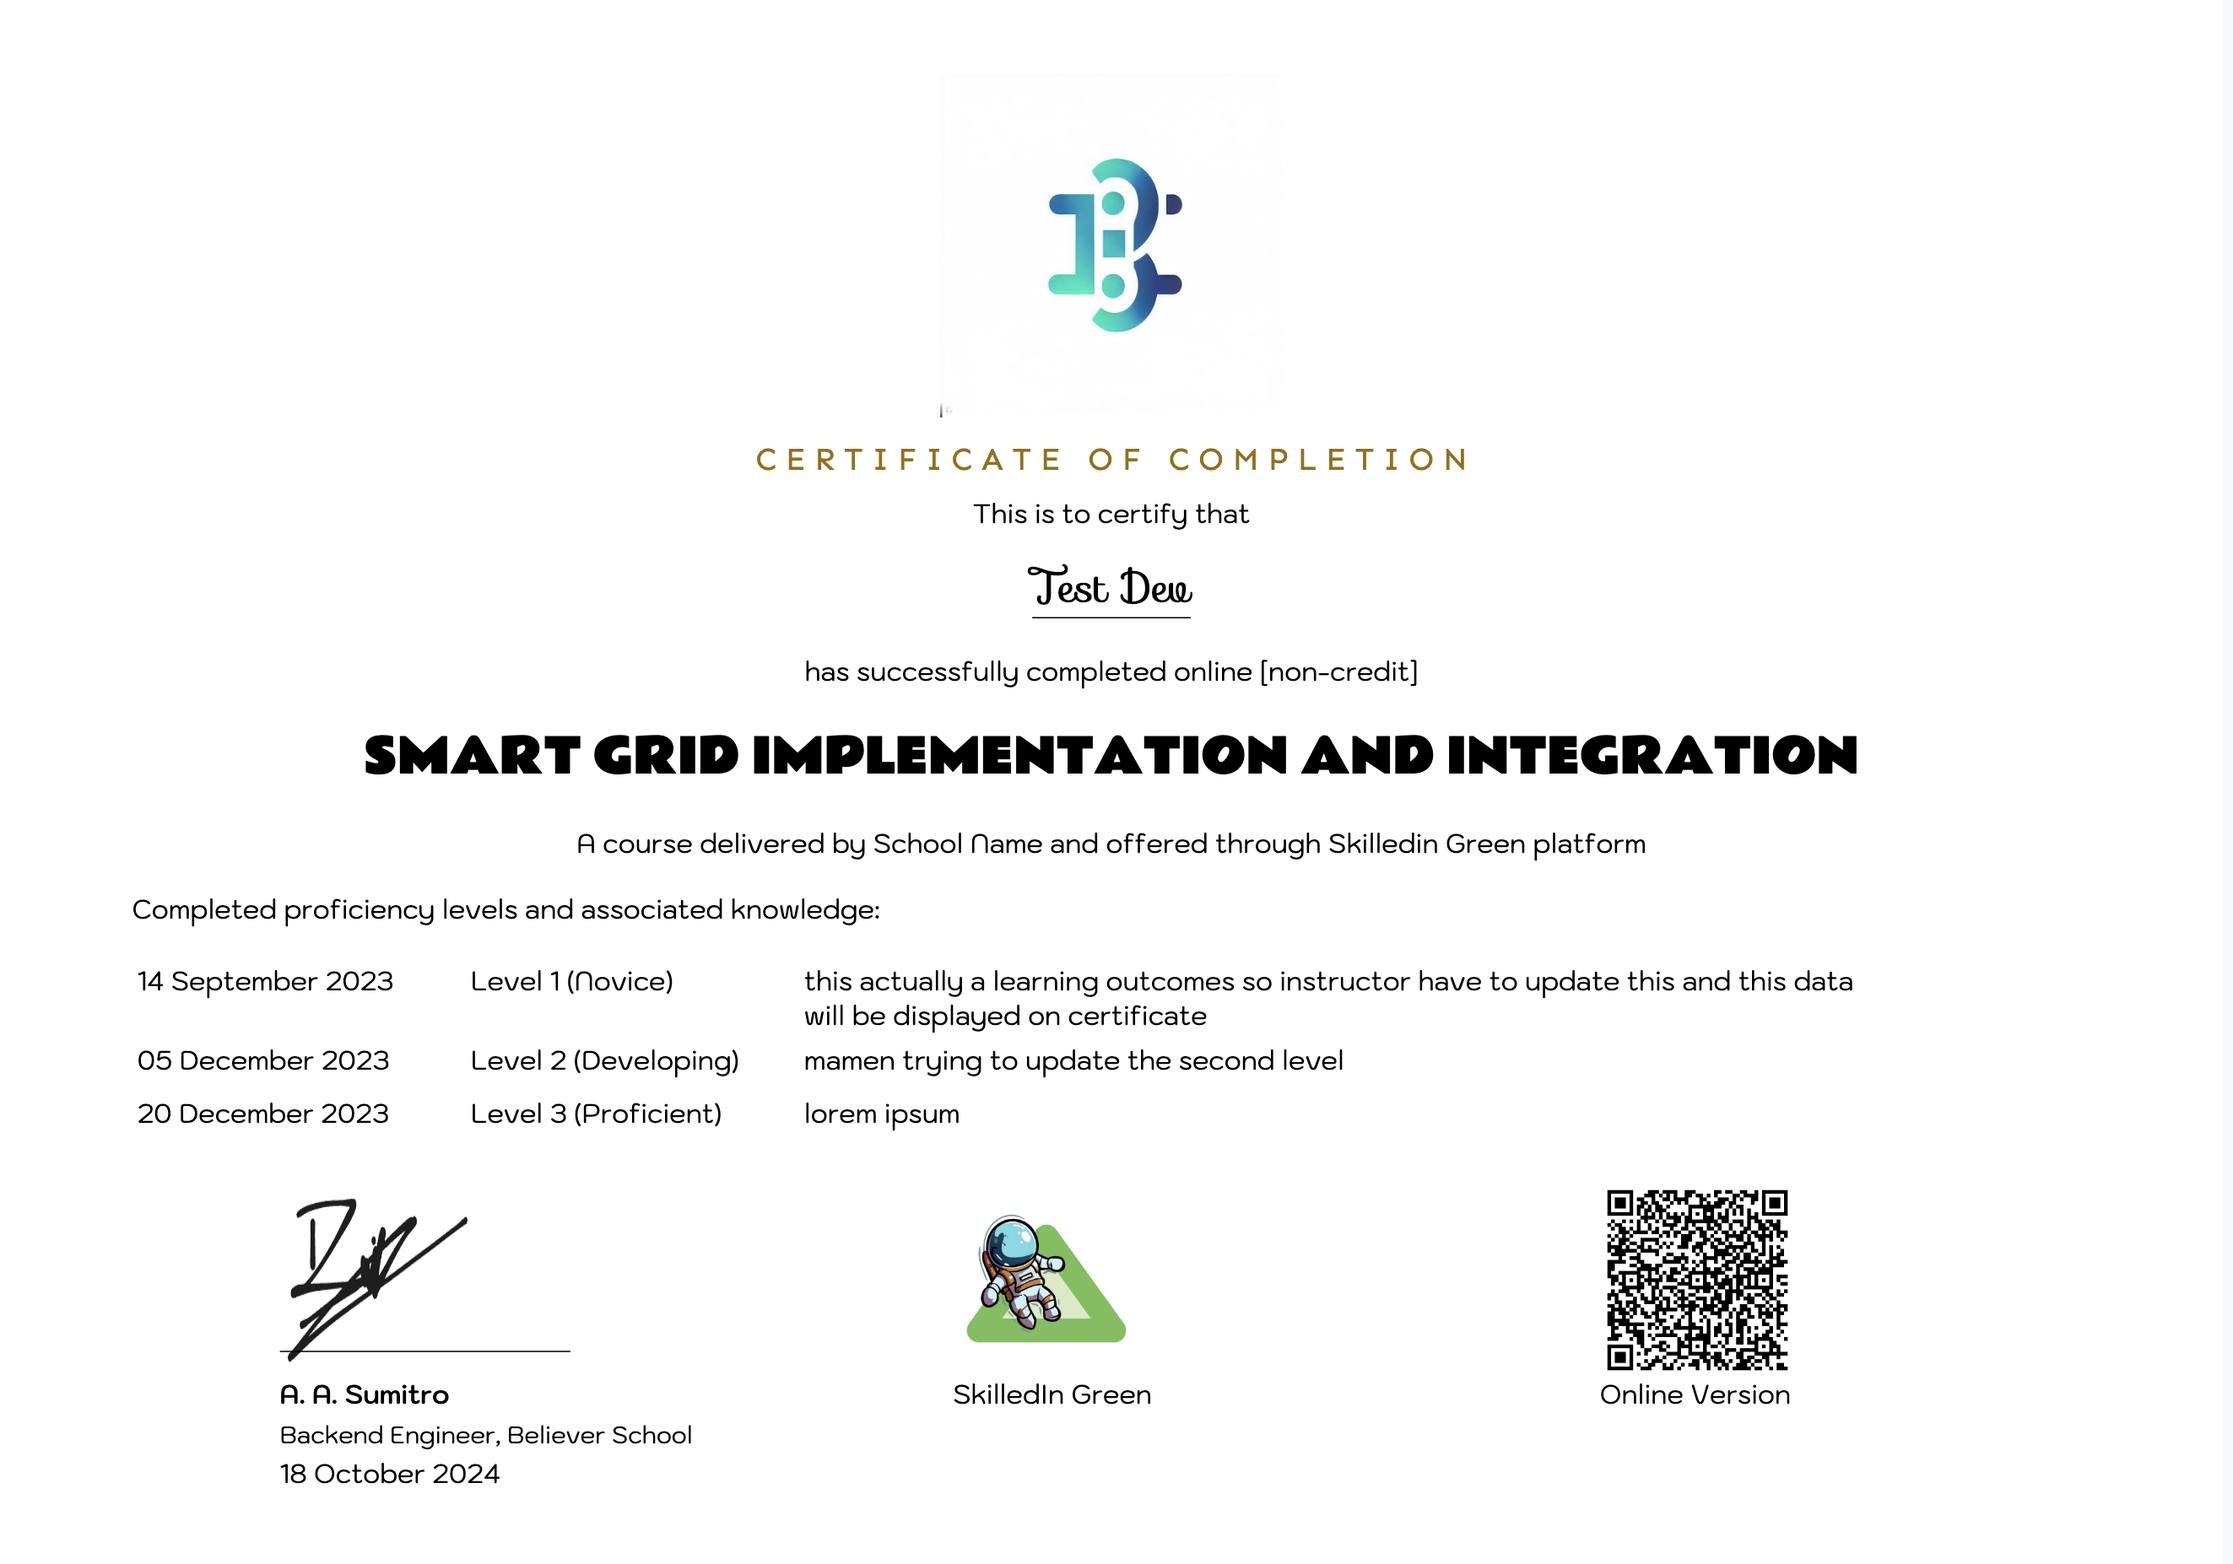
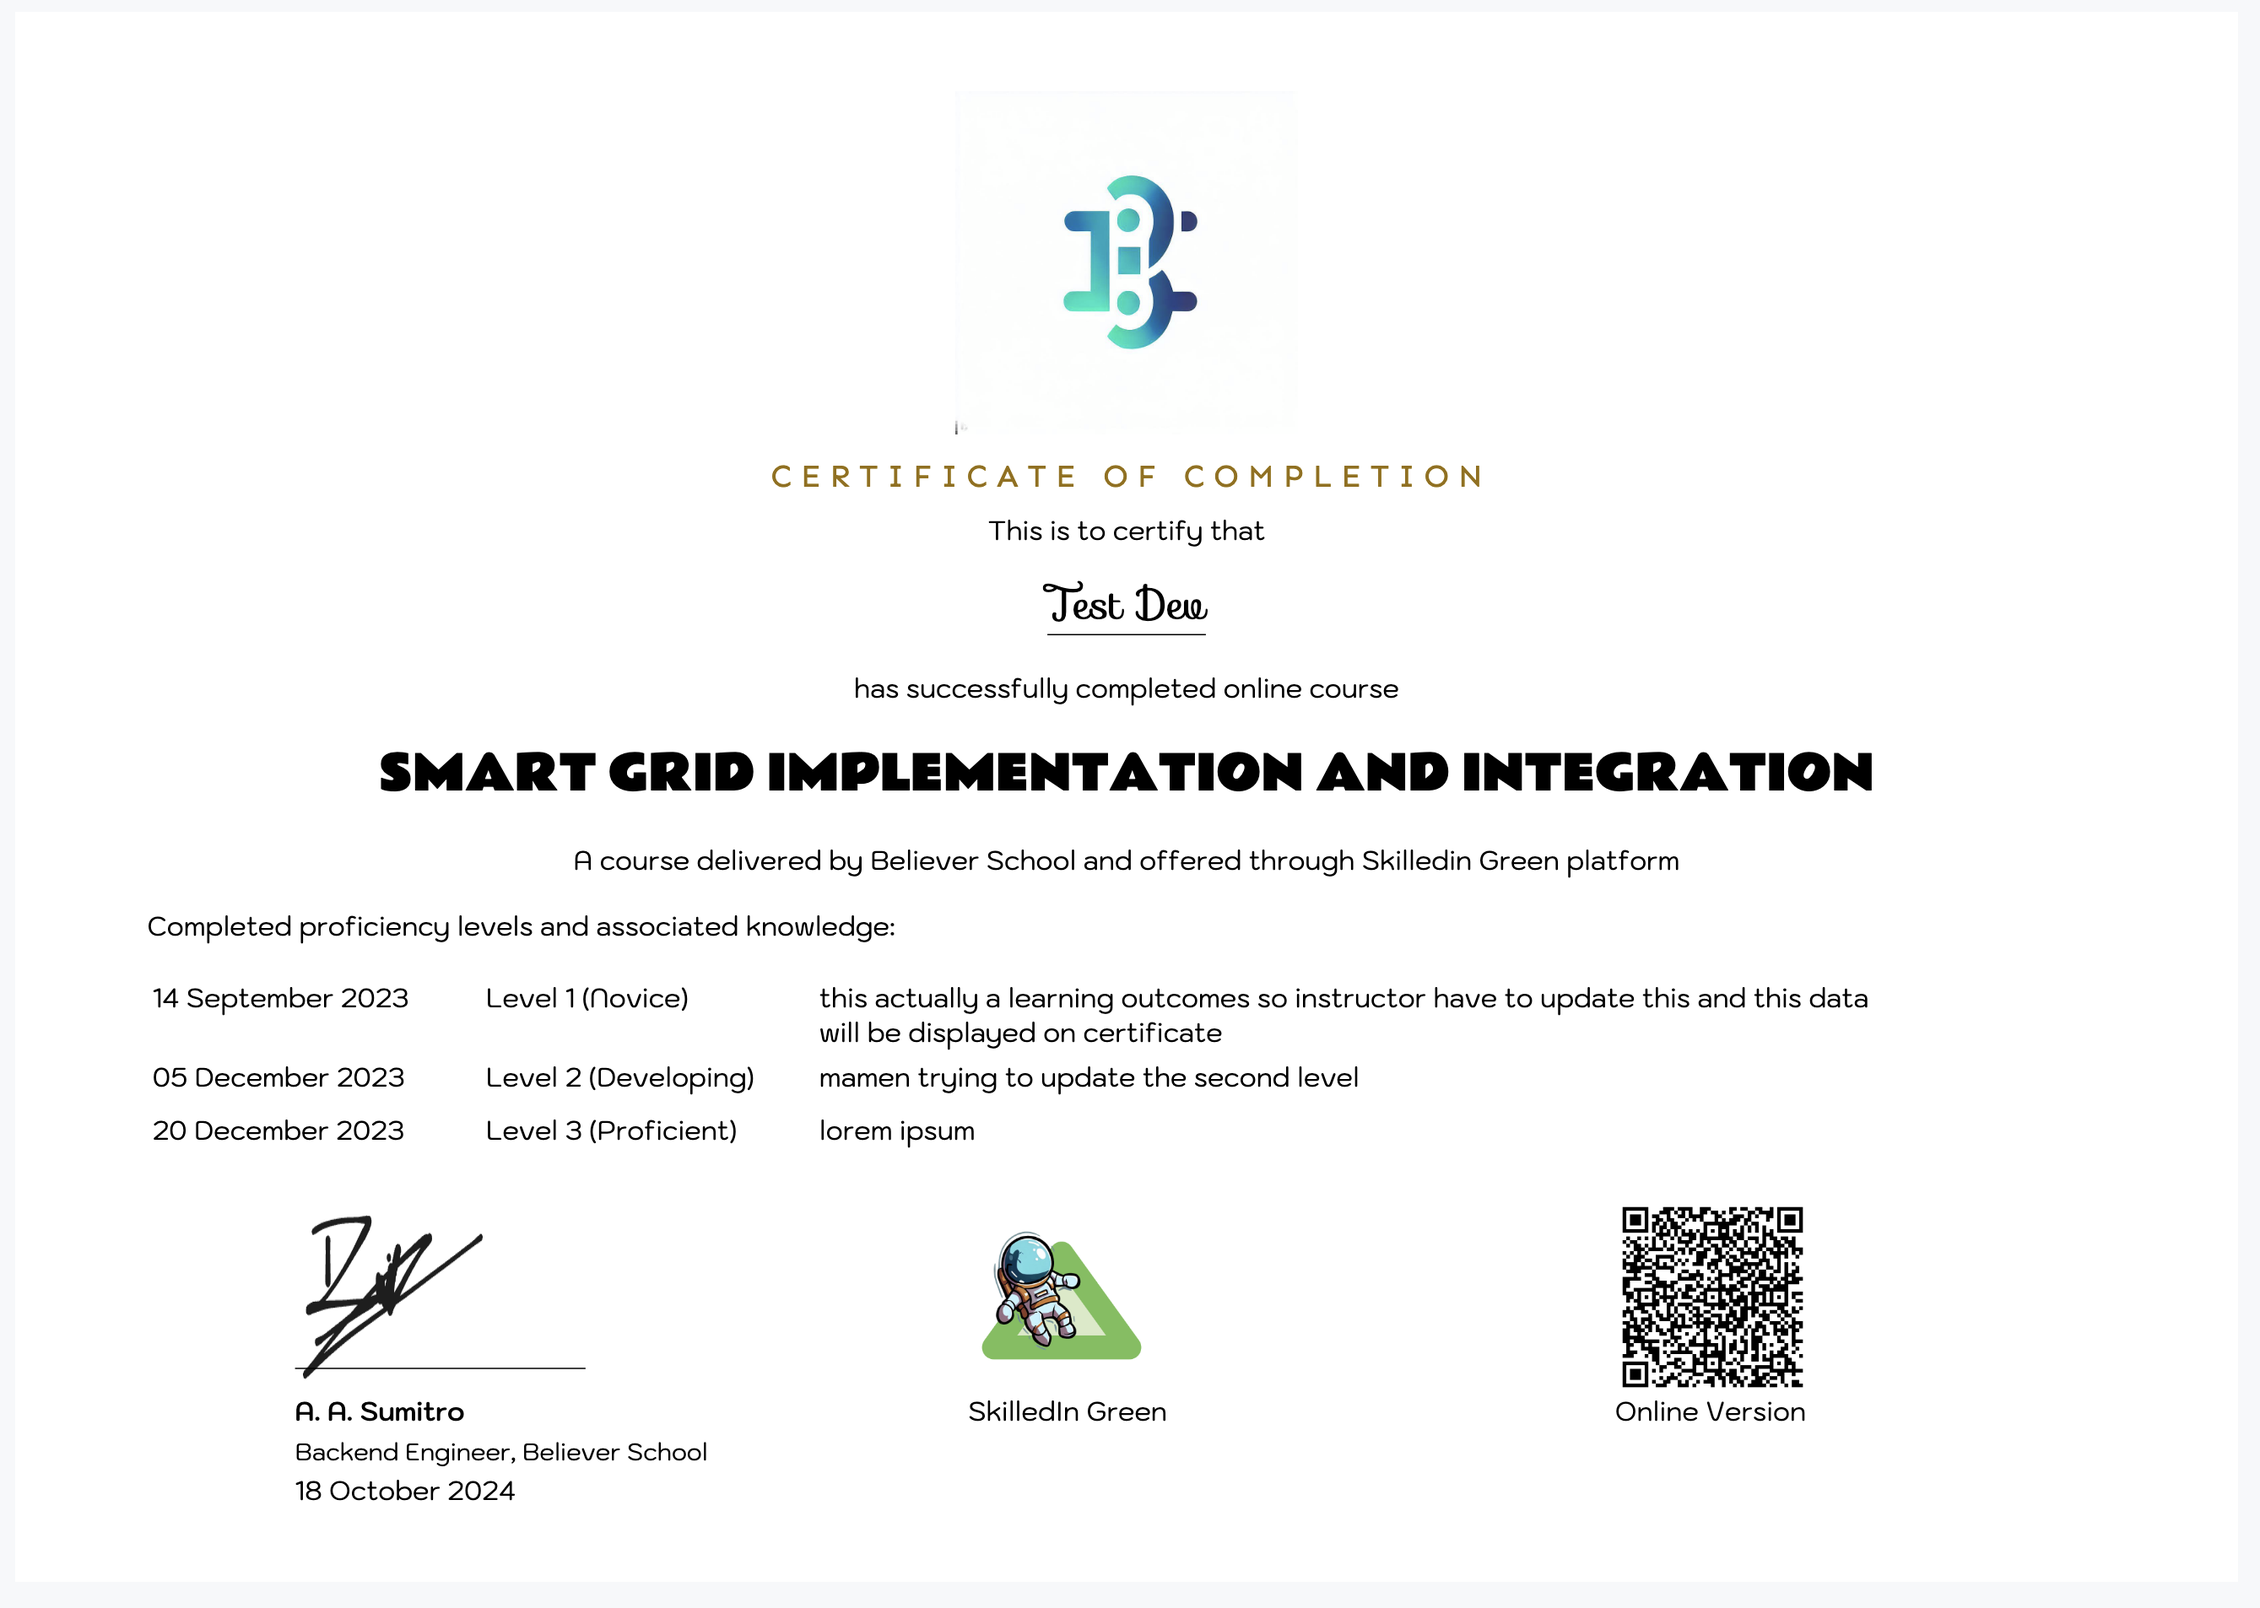
WIP

diff --git a/internal/certificate.go b/internal/certificate.go
@@ -212,7 +212,7 @@ func (c PreGenerateCertificate) GeneratePDF(path string) error {
 	pdf.Line(startX, underlineY, startX+textWidth, underlineY)
 
 	if _, _, err := centerText(
-		"has successfully completed online [non-credit]",
+		"has successfully completed online course",
 		"regular", startY+80, 10, 0, 0, 0,
 	); err != nil {
 		return err
@@ -226,7 +226,8 @@ func (c PreGenerateCertificate) GeneratePDF(path string) error {
 	}
 
 	if _, _, err := centerText(
-		"A course delivered by School Name and offered through Skilledin Green platform",
+		fmt.Sprintf("A course delivered by %s and offered through Skilledin Green platform",
+			c.Material.School.Name),
 		"regular", startY+145, 10, 0, 0, 0,
 	); err != nil {
 		return err
